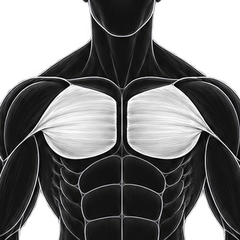
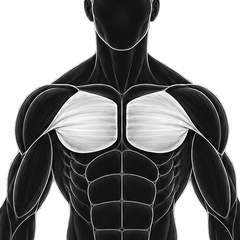
홈 부위별 카드 - 가슴 썸네일 줌아웃 (v0.9.102) (#582)
가슴 썸네일도 등/하체와 비슷하게 확대되어 보인다는 요청으로, 크롭
패딩 배율을 1.3→1.55로 늘려서 주변 여백을 더 확보.

Claude-Session: https://claude.ai/code/session_01TNoGCWRQtXcfdnQwZ6HvCX

diff --git a/index.html b/index.html
@@ -10400,7 +10400,7 @@ const settingsHeaderName = document.getElementById("settingsHeaderName");
 const settingsHeaderSub = document.getElementById("settingsHeaderSub");
 
 /* ✅ 앱 버전 정의 — 의미 있는 수정/배포마다 올림(설정 화면에서 "최신 버전 받았는지" 확인용) */
-const APP_VERSION = "0.9.101";
+const APP_VERSION = "0.9.102";
 const appVersionDisplay = document.getElementById("appVersionDisplay");
 if (appVersionDisplay) {
   appVersionDisplay.textContent = APP_VERSION;
